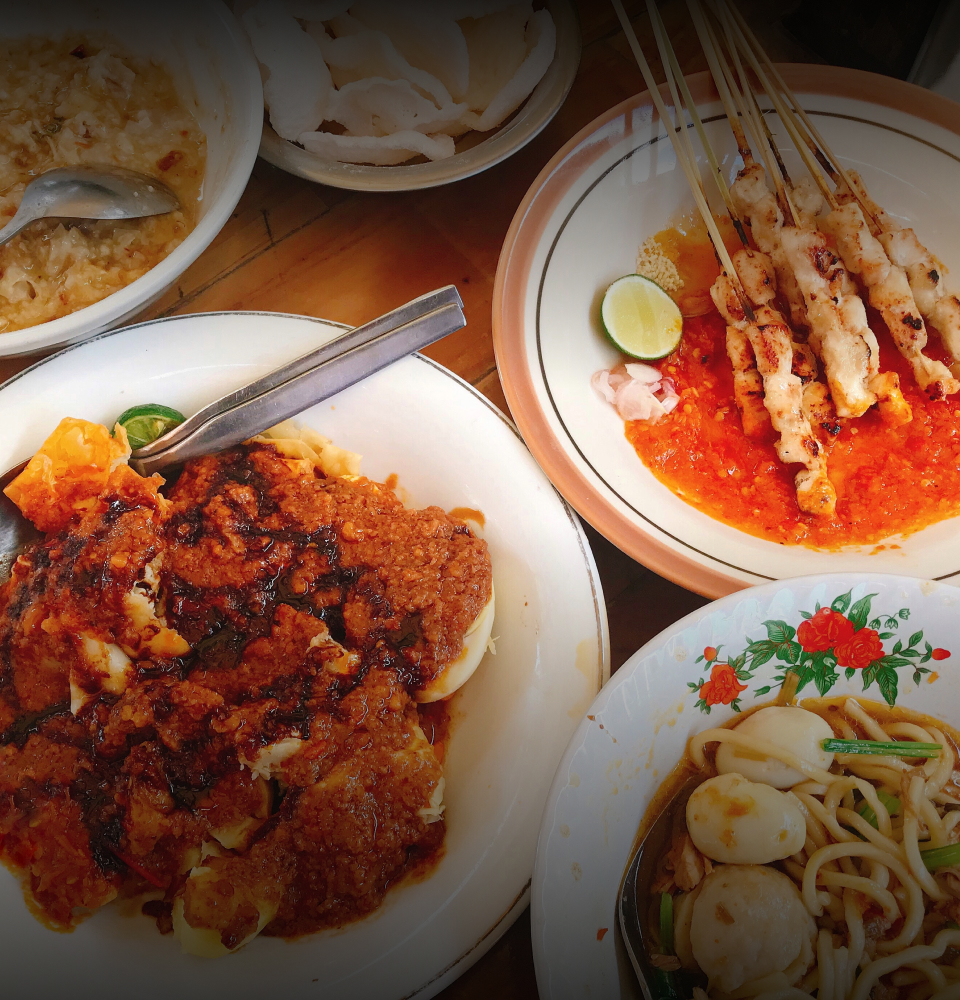
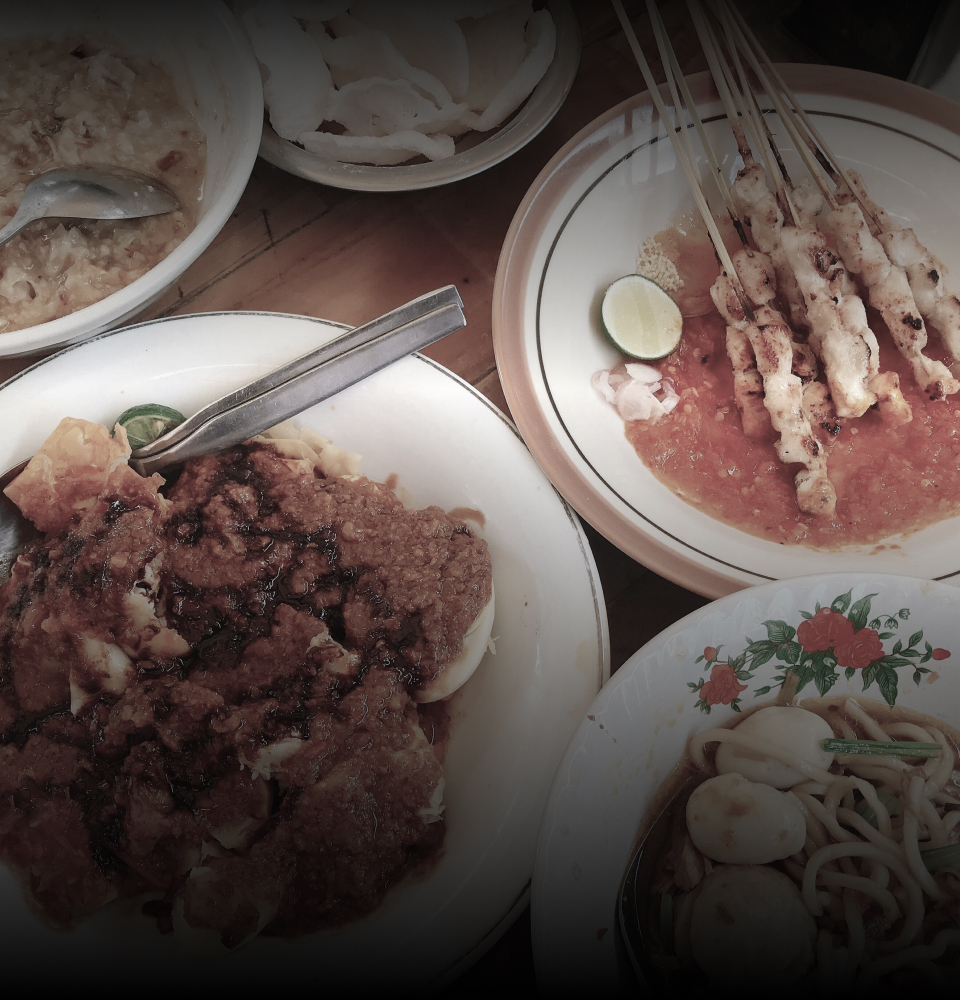
add_scrol_filter

diff --git a/lib/screens/home/home_screen.dart b/lib/screens/home/home_screen.dart
@@ -4,6 +4,8 @@ import 'package:loka/theme.dart';
 import 'package:loka/model/food_model.dart';
 import 'package:smooth_page_indicator/smooth_page_indicator.dart';
 
+import 'components/body.dart';
+
 class HomeScreen extends StatefulWidget {
   const HomeScreen({Key? key}) : super(key: key);
 
@@ -14,63 +16,71 @@ class HomeScreen extends StatefulWidget {
 class _HomeScreenState extends State<HomeScreen> {
   int activeIndex = 0;
   final controller = CarouselController();
+
   @override
   Widget build(BuildContext context) {
     return Scaffold(
       appBar: PreferredSize(
-        preferredSize: const Size.fromHeight(480),
-        child: AppBar(
-          flexibleSpace: Stack(
-            //mainAxisAlignment: MainAxisAlignment.center,
-            children: [
-              CarouselSlider.builder(
-                options: CarouselOptions(
-                  viewportFraction: 1,
-                  height: 400,
-                  autoPlay: true,
-                  autoPlayInterval: const Duration(seconds: 4),
-                  onPageChanged: (index, reason) =>
-                      setState(() => activeIndex = index),
-                ),
-                itemCount: urlImages.length,
-                itemBuilder: (context, index, realIndex) {
-                  final urlImage = urlImages[index];
-                  final titleEvent = titleEvents[index];
-                  final subtitleEvent = subtitleEvents[index];
-                  return buildImage(urlImage, titleEvent, subtitleEvent, index);
-                },
-              ),
-              Positioned(
-                  top: 350,
-                  left: MediaQuery.of(context).size.width * 0.45,
-                  right: MediaQuery.of(context).size.width * 0.45,
-                  child: buildIndicator())
-            ],
+        preferredSize: const Size.fromHeight(400),
+        child: buildAppbar(context),
+      ),
+      body: const Body(),
+    );
+  }
+
+  AppBar buildAppbar(BuildContext context) {
+    return AppBar(
+      flexibleSpace: Stack(
+        //mainAxisAlignment: MainAxisAlignment.center,
+        children: [
+          CarouselSlider.builder(
+            options: CarouselOptions(
+              viewportFraction: 1,
+              height: 400,
+              autoPlay: true,
+              autoPlayInterval: const Duration(seconds: 4),
+              onPageChanged: (index, reason) =>
+                  setState(() => activeIndex = index),
+            ),
+            itemCount: urlImages.length,
+            itemBuilder: (context, index, realIndex) {
+              final urlImage = urlImages[index];
+              final titleEvent = titleEvents[index];
+              final subtitleEvent = subtitleEvents[index];
+              return buildImage(urlImage, titleEvent, subtitleEvent, index);
+            },
           ),
-          leading: const Icon(
-            Icons.account_circle_rounded,
-            size: 34,
+          Positioned(
+              top: 350,
+              left: MediaQuery.of(context).size.width * 0.45,
+              right: MediaQuery.of(context).size.width * 0.45,
+              child: buildIndicator())
+        ],
+      ),
+      leading: IconButton(
+        icon: const Icon(Icons.account_circle_rounded),
+        color: Colors.white,
+        onPressed: () {},
+      ),
+      backgroundColor: Colors.transparent,
+      elevation: 0,
+      centerTitle: true,
+      title: Text(
+        'Loka',
+        style: lightTitleStyle,
+      ),
+      actions: [
+        const SizedBox(
+          width: 30,
+        ),
+        Container(
+          padding: const EdgeInsets.only(right: 5),
+          child: const Icon(
+            Icons.notifications_active,
             color: Colors.white,
           ),
-          backgroundColor: Colors.transparent,
-          elevation: 0,
-          centerTitle: true,
-          title: Text(
-            'Loka',
-            style: lightTitleStyle,
-          ),
-          actions: const [
-            Icon(
-              Icons.notifications_active,
-              color: Colors.white,
-              size: 32,
-            ),
-          ],
         ),
-      ),
-      body: ListView(
-        children: const [],
-      ),
+      ],
     );
   }
 

diff --git a/lib/screens/home/components/body.dart b/lib/screens/home/components/body.dart
@@ -1,0 +1,94 @@
+import 'package:flutter/material.dart';
+import 'package:flutter/widgets.dart';
+import 'package:font_awesome_flutter/font_awesome_flutter.dart';
+import 'package:loka/theme.dart';
+
+import '../../../model/food_model.dart';
+
+class Body extends StatelessWidget {
+  const Body({super.key});
+
+  @override
+  Widget build(BuildContext context) {
+    return Column(
+      crossAxisAlignment: CrossAxisAlignment.start,
+      children: <Widget>[
+        Padding(
+          padding: const EdgeInsets.symmetric(horizontal: defaultPadding),
+          child: Text(
+            "Cari Loka",
+            style: dark_titleTextStyle,
+          ),
+        ),
+        const _Categories(),
+      ],
+    );
+  }
+}
+
+class _Categories extends StatefulWidget {
+  const _Categories({super.key});
+
+  @override
+  State<_Categories> createState() => _CategoriesState();
+}
+
+class _CategoriesState extends State<_Categories> {
+  int selectedIndex = 0;
+  @override
+  Widget build(BuildContext context) {
+    return SizedBox(
+      height: 70,
+      child: ListView.builder(
+        scrollDirection: Axis.horizontal,
+        itemCount: categories.length,
+        itemBuilder: (context, index) => buildCategory(index),
+      ),
+    );
+  }
+
+  Widget buildCategory(int index) {
+    return Padding(
+      padding: const EdgeInsets.symmetric(horizontal: defaultPadding),
+      child: Column(
+        crossAxisAlignment: CrossAxisAlignment.start,
+        children: [
+          TextButton(
+            style: TextButton.styleFrom(
+              backgroundColor: selectedIndex == index
+                  ? const Color.fromRGBO(255, 178, 0, 1)
+                  : const Color.fromRGBO(237, 237, 237, 1),
+              shape: RoundedRectangleBorder(
+                borderRadius: BorderRadius.circular(14),
+              ),
+            ),
+            onPressed: () {},
+            child: Row(
+              children: [
+                Image(
+                  image: AssetImage(iconku[index]),
+                  width: 20,
+                ),
+                const SizedBox(
+                  width: 10,
+                ),
+                Text(
+                  categories[index],
+                  style: selectedIndex == index
+                      ? subtitleTextStyle
+                      : grey_subtitleTextStyle,
+                ),
+              ],
+            ),
+          ),
+          Container(
+            margin: const EdgeInsets.only(top: defaultPadding / 4),
+            height: 2,
+            width: 30,
+            color: selectedIndex == index ? subtitleColor : Colors.transparent,
+          )
+        ],
+      ),
+    );
+  }
+}

diff --git a/lib/theme.dart b/lib/theme.dart
@@ -1,19 +1,33 @@
 import 'package:flutter/material.dart';
 import 'package:google_fonts/google_fonts.dart';
 
+// => COLOR
 Color primaryColor = const Color.fromARGB(255, 255, 255, 255);
 Color secondaryColor = const Color.fromRGBO(255, 178, 0, 1);
 Color titleColor = const Color.fromRGBO(63, 71, 115, 1);
 Color subtitleColor = const Color.fromRGBO(0, 0, 0, 1);
+Color grey = const Color.fromRGBO(126, 126, 126, 1);
 
-TextStyle titleTextStyle =
-    GoogleFonts.montserrat(color: primaryColor, fontSize: 28, fontWeight: bold);
-TextStyle subtitleTextStyle = GoogleFonts.montserrat(
-    color: primaryColor, fontSize: 12, fontWeight: medium);
-TextStyle lightTitleStyle =
-    GoogleFonts.montserrat(color: primaryColor, fontWeight: medium);
+// => FONT WEIGHT
 FontWeight light = FontWeight.w300;
 FontWeight regular = FontWeight.w400;
 FontWeight medium = FontWeight.w500;
 FontWeight semibold = FontWeight.w600;
 FontWeight bold = FontWeight.w700;
+
+//=> FONT STYLE
+TextStyle titleTextStyle =
+    GoogleFonts.montserrat(color: primaryColor, fontSize: 28, fontWeight: bold);
+TextStyle dark_titleTextStyle =
+    GoogleFonts.montserrat(color: titleColor, fontSize: 28, fontWeight: bold);
+TextStyle grey_subtitleTextStyle =
+    GoogleFonts.montserrat(color: grey, fontSize: 12, fontWeight: medium);
+TextStyle subtitleTextStyle = GoogleFonts.montserrat(
+    color: primaryColor, fontSize: 12, fontWeight: medium);
+TextStyle dark_subtitleTextStyle = GoogleFonts.montserrat(
+    color: subtitleColor, fontSize: 12, fontWeight: medium);
+TextStyle lightTitleStyle =
+    GoogleFonts.montserrat(color: primaryColor, fontWeight: medium);
+
+// => PADDING
+const defaultPadding = 20.0;

diff --git a/lib/model/food_model.dart b/lib/model/food_model.dart
@@ -17,3 +17,22 @@ final subtitleEvents = [
   'Berkompetisi dengan seni memasak, mengembangkan budaya kuliner Indonesia!',
   'Mari Rasakan Kenikmatan Sate Lokal yang Beraneka Ragam di Festival In',
 ];
+
+// KATALOG FOOD
+//-> Kategori
+//
+List<String> categories = [
+  'Rekomendasi',
+  'Nasi',
+  'Jajanan',
+  'Minuman',
+  'Makanan Khas'
+];
+var pathIcon = 'assets/icons/';
+List<String> iconku = [
+  'assets/icons/like.png',
+  'assets/icons/rice.png',
+  'assets/icons/cake.png',
+  'assets/icons/juice.png',
+  'assets/icons/fkhas.png',
+];

diff --git a/lib/main.dart b/lib/main.dart
@@ -1,6 +1,6 @@
 import 'package:flutter/material.dart';
-import 'package:loka/pages/home_Screen.dart';
-import 'package:loka/pages/splash_screen.dart';
+import 'package:loka/screens/home/home_screen.dart';
+import 'package:loka/screens/splash_screen.dart';
 
 void main() {
   runApp(const MainApp());
